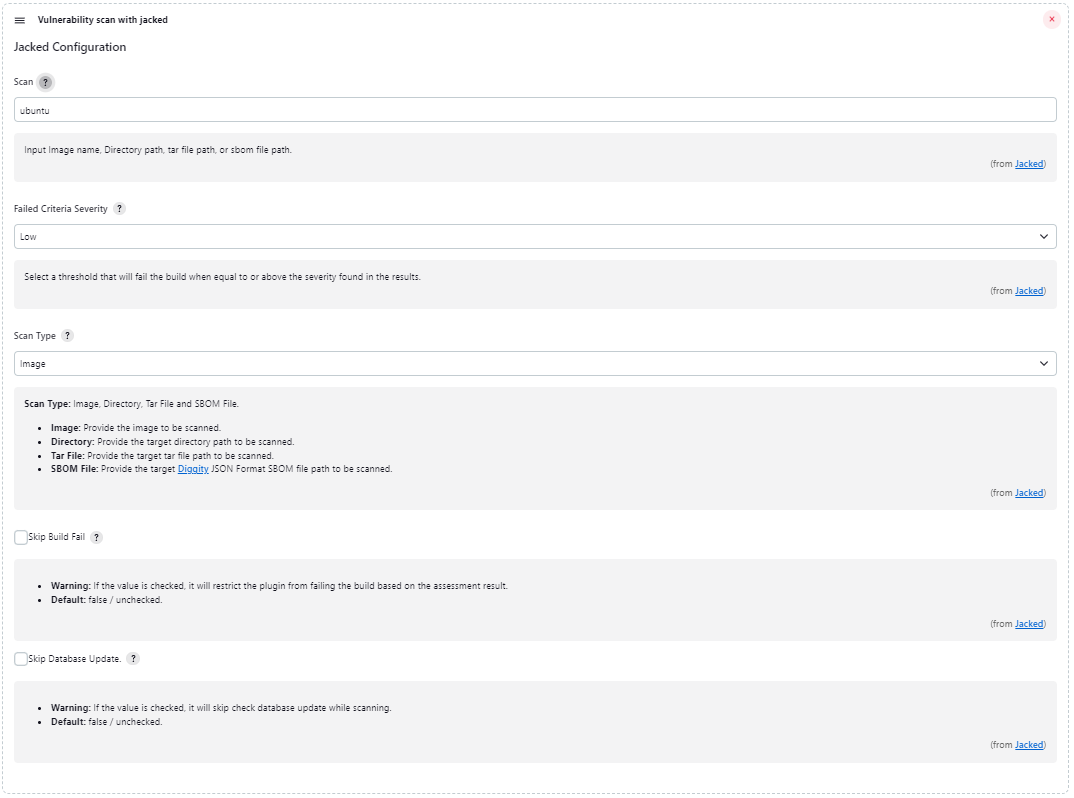
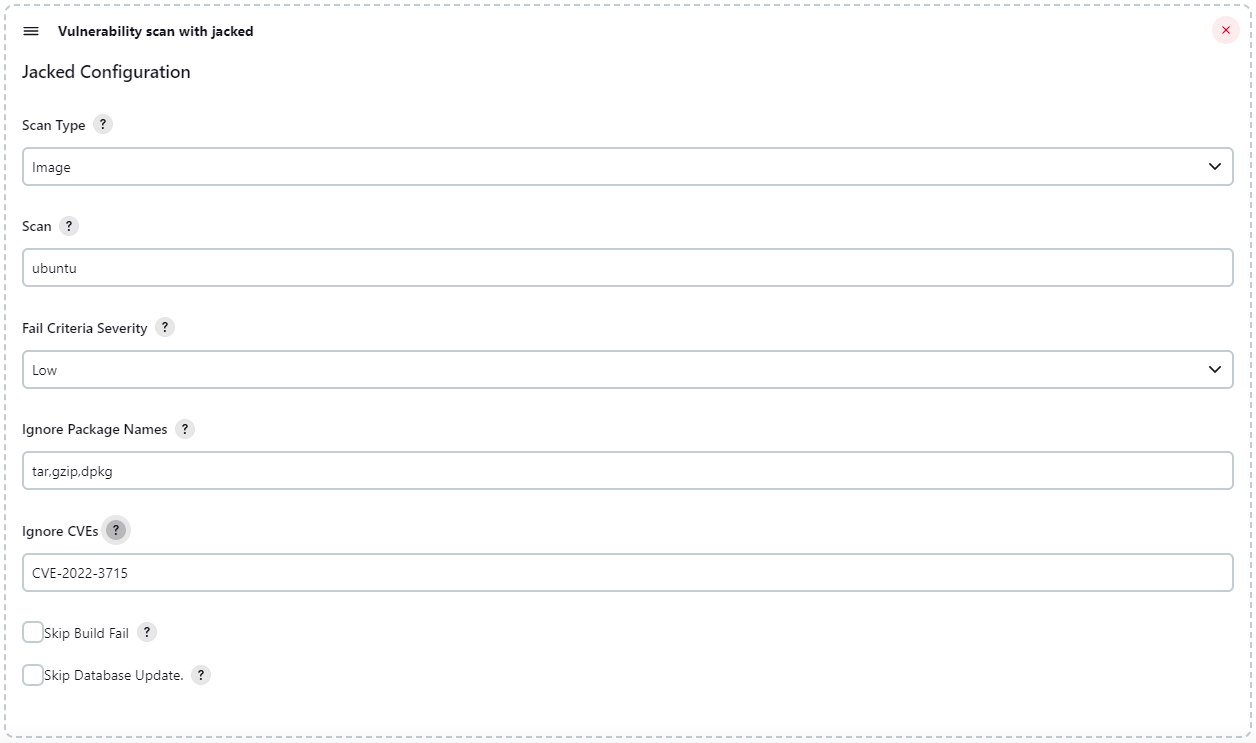
docs: update readme and configuration for ignore package names and cves

diff --git a/README.md b/README.md
@@ -1,4 +1,4 @@
-# jacked-plugin
+# Jacked
 
 ## Introduction
 
@@ -15,24 +15,34 @@ The plugin will install the "jacked" binary tool. `(Windows and Linux Supported)
 - Uses Scoop for Windows
 - Uses Shell Script for Linux
 
-## Usage as add build step
+# Usage as add build step
 <img src="assets/add-build-step.png" alt="Jacked plugin" />
 
 ## Plugin Configuration
 
 <img src="assets/configuration.png" alt="Jacked plugin configuration" />
 
-## Output
+# Output
 Provides the following:
 - `Quiet Mode`: Removed verbiage.
 - Show a list of packages.
 - `Analyzing BOM`: Showing vulnerabilities found and providing recommendations to fix them.
 - Show CI Assessment Result: Pass or Fail based on the selected fail criteria severity type.
+- Saves output file on the workspace in every build. `jacked_result_$(JOBNAME)_$(BUILDNUMBER).txt`
 
-## Plugin Configuration Fields and Descriptions
-### Scan
+
+# Plugin Configuration Fields and Descriptions
+## Scan Type
+<b>Description: </b>Specified the input on scan field based on the selected scan type.
+<br>
+<b>Option:</b>
+- `Image`: Provide the image to be scanned.
+- `Directory`: Provide the target directory path to be scanned.
+- `Tar File`: Provide the target tar file path to be scanned.
+- `SBOM File`: Provide the target [Diggity](https://github.com/carbonetes/diggity) JSON Format SBOM file path to be scanned.
+## Scan
 <b>Input: </b> Image name, Directory path, tar file path, or sbom file path.
-### Fail Criteria Severity
+## Fail Criteria Severity
 <b>Description: </b>Select a threshold that will fail the build when equal to or above the severity found in the results. 
 <br>
 <b>Option:</b> 
@@ -42,26 +52,27 @@ Provides the following:
 - Low
 - Negligible
 - Unknown
-### Scan Type
-<b>Description: </b>Specified the input on scan field based on the selected scan type.
+## Ignore Package Names
+<b>Usage:</b> Ignore the following package names when scanning. Leave blank if not using.
 <br>
-<b>Option:</b>
-- `Image`: Provide the image to be scanned.
-- `Directory`: Provide the target directory path to be scanned.
-- `Tar File`: Provide the target tar file path to be scanned.
-- `SBOM File`: Provide the target [Diggity](https://github.com/carbonetes/diggity) JSON Format SBOM file path to be scanned.
+Example Input Format: dpkg,tar,gzip,...
+## Ignore CVEs
+<b>Usage:</b> Ignore the following CVEs when scanning. Leave blank if not using.
+<br>
+Example Input Format: CVE-2022-24775,CVE-2022-1304,TEMP-0000000-6F6CD4,...
 
-### Skip Build Fail
+
+## Skip Build Fail
 Default value is `false / unchecked`.
 <br>
 <b>Warning:</b> If the value is checked, it will restrict the plugin from failing the build based on the assessment result.
 
-### Skip Database Update
+## Skip Database Update
 Default value is `false / unchecked`.
 <br>
 <b>Warning:</b> If the value is checked, it will skip check database update while scanning.
 
-## Usage as Pipeline
+# Usage as Pipeline
 ```sh
 pipeline {
     agent any
